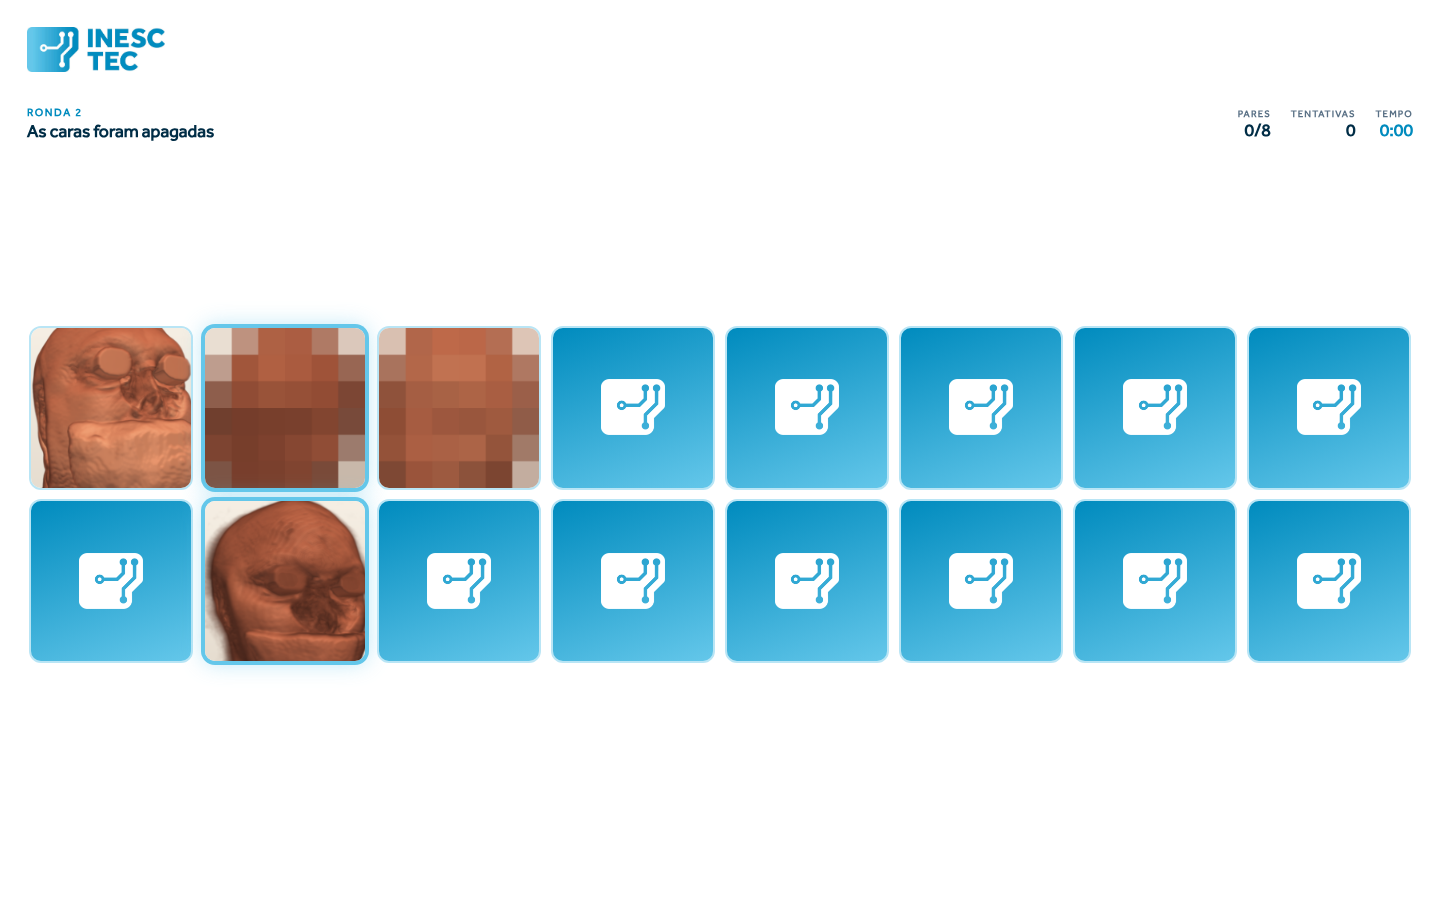
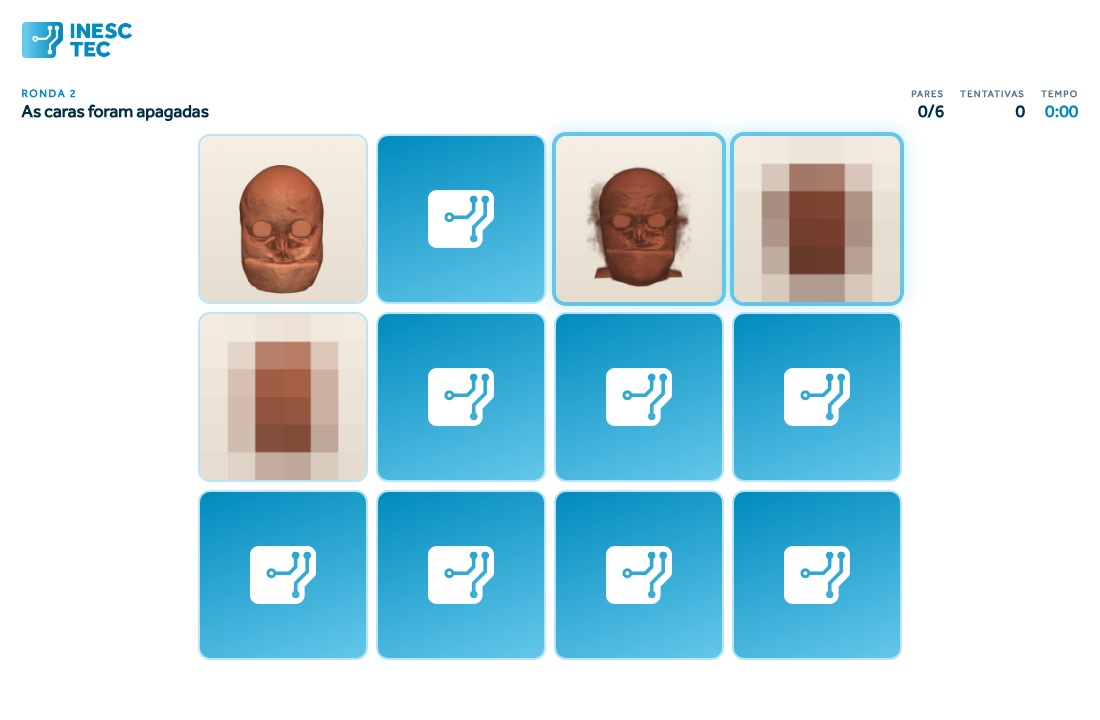
README: picture of round 2 in easy mode with whole-head framing

diff --git a/README.md b/README.md
@@ -5,8 +5,8 @@ anonymised. The cards are faces reconstructed from real head MRI scans.
 
 ![Round 2 of the game: anonymised cards next to original faces, which are pixelated in this picture](docs/ronda2.png)
 
-*Round 2. In this picture the original faces are pixelated on purpose; in the
-game they are shown in full.*
+*Round 2, easy difficulty, whole-head framing. In this picture the original
+faces are pixelated on purpose; in the game they are shown in full.*
 
 The game interface is in Portuguese; it was built as an outreach activity for
 primary-school children and the general public.
